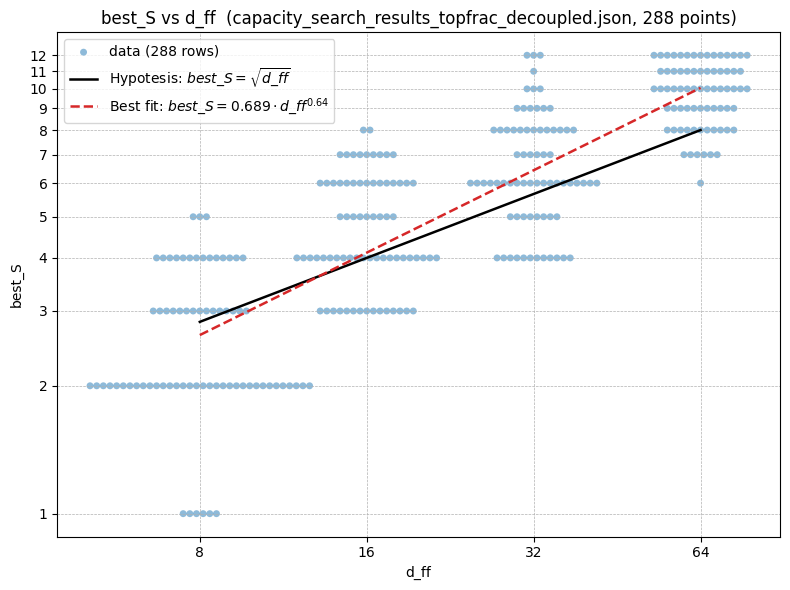
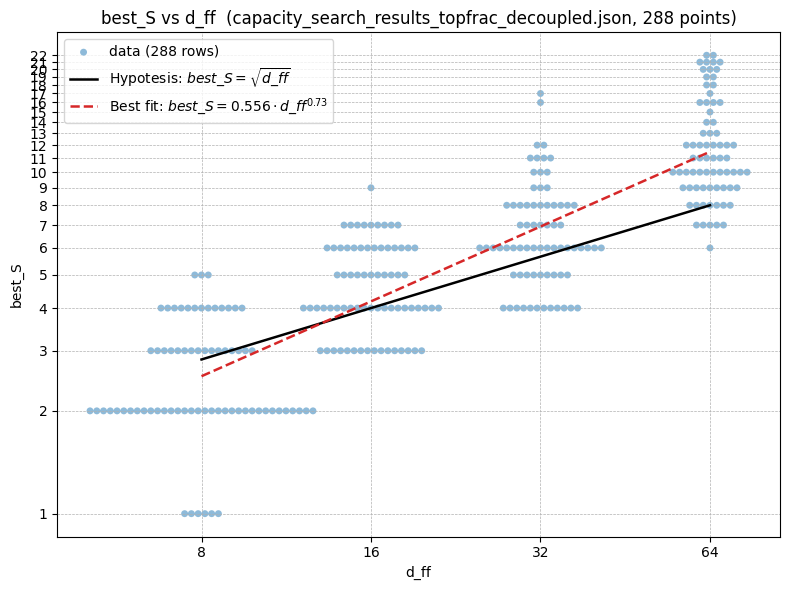
Fixed some figures

diff --git a/LW_draft/LW_draft.md b/LW_draft/LW_draft.md
@@ -274,7 +274,11 @@ The plot below shows my data from binary search to find maximum number of fact a
 ### Optimal S is the square root of number of ReLU neurons
 To get the best version of my handcoded model, I do a hyperparameter sweep over $S$ and $top\_fraction$. From this I can extract the optimal $S$ for different model sizes by looking at $S$ from the winning ($S$, $top\_fraction$) pair.
 
-Doing so for the data from used in Figure 4, showed that $S\approx\sqrt{d}$. However, this does not tell me if $S$ depends on $n_{input\_vocab}$, $d_{MLP}$ or $n_{output\_vocab}$ since these all vary together in that experiment. 
+Doing so for the data from used in Figure 4, showed that $S\approx\sqrt{d}$. 
+
+![](best_S_vs_d.png)
+
+However, this does not tell me if $S$ depends on $n_{input\_vocab}$, $d_{MLP}$ or $n_{output\_vocab}$ since these all vary together in that experiment. 
 
 In the next experiment I did a binary search for max number of facts for every combination of the following parameters:
 